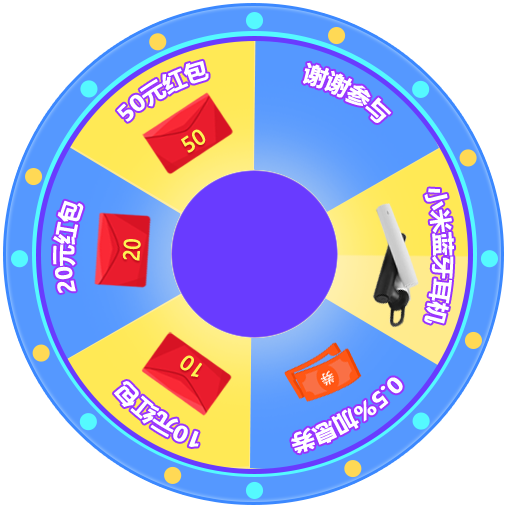
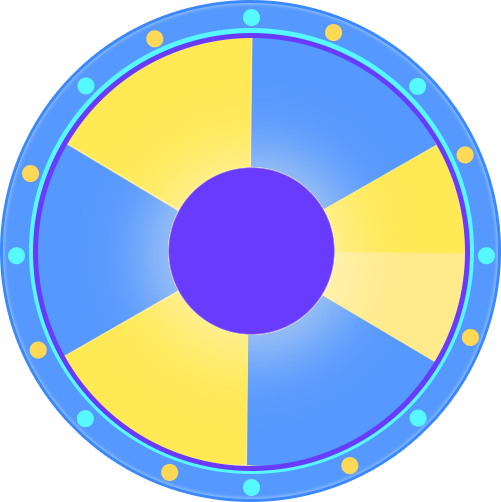
修改转盘

diff --git a/src/html/B/turning_disc.html b/src/html/B/turning_disc.html
@@ -54,7 +54,33 @@
             <div class="turning" data="0">
                 <img src="../../images/icon_Rotary_02@2x.png" />
             </div>
-            <img class="rota-img" src="../../images/icon_Rotary_01@2x.png" />
+            <div class="rota-img">
+                <div class="rota-item" style="transform: rotate(30deg);">
+                    <p>50元红包</p>
+                    <img src="../../images/pic2.png" />
+                </div>
+                <div class="rota-item" style="transform: rotate(90deg);">
+                    <p>20元红包</p>
+                    <img src="../../images/pic2.png" />
+                </div>
+                <div class="rota-item" style="transform: rotate(150deg);">
+                    <p>10元红包</p>
+                    <img src="../../images/pic2.png" />
+                </div>
+                <div class="rota-item" style="transform: rotate(210deg);">
+                    <p>0.5%加息劵</p>
+                    <img src="../../images/pic2.png" />
+                </div>
+                <div class="rota-item" style="transform: rotate(270deg);">
+                    <p>小米蓝牙耳机</p>
+                    <img src="../../images/pic2.png" />
+                </div>
+                <div class="rota-item" style="transform: rotate(330deg);">
+                    <p>谢谢参与</p>
+                    <img src="../../images/pic2.png" />
+                </div>
+            </div>
+            <!-- <img class="rota-img" src="../../images/icon_Rotary_01@2x.png" /> -->
         </div>
     </div>
 
@@ -66,21 +92,17 @@
 
 <script>
     var turnArr = [{
-        name: '50元红包'
-    }, {
-        name: '20元红包'
-    }, {
-        name: '10元红包'
-    }, {
-        name: '0.5%加息劵'
+        name: '谢谢参与'
     }, {
         name: '小米蓝牙耳机'
     }, {
-        name: '谢谢参与'
+        name: '0.5%加息劵'
     }, {
-        name: '谢谢参与1'
+        name: '10元红包'
     }, {
-        name: '谢谢参与2'
+        name: '20元红包'
+    }, {
+        name: '50元红包'
     }];
 
 

diff --git a/src/less/B/turning_disc.less b/src/less/B/turning_disc.less
@@ -75,4 +75,26 @@
 .rota-img {
     width: 5.66rem;
     height: 5.66rem;
+    background-size: 100% 100%;
+    background-repeat: no-repeat;
+    background-image: url('../../images/icon_Rotary_01@2x.png');
+    position: relative;
+
+    .rota-item {
+        width: 5.6rem;
+        transform-origin: 50% 2.9rem;
+        position: absolute;
+        text-align: center;
+        color: #fff;
+        padding-top: 0.6rem;
+        font-size: 0.28rem;
+        font-weight: bold;
+        -webkit-text-stroke: 0.01rem #693bff;
+
+        img {
+            max-width: 1.2rem;
+            max-height: 0.65rem;
+            margin-top: 0.15rem;
+        }
+    }
 }

diff --git a/src/css/B/turning_disc.css b/src/css/B/turning_disc.css
@@ -78,4 +78,26 @@
 .rota-img {
   width: 5.66rem;
   height: 5.66rem;
+  background-size: 100% 100%;
+  background-repeat: no-repeat;
+  background-image: url(../../images/icon_Rotary_01@2x.png);
+  position: relative;
+}
+.rota-img .rota-item {
+  width: 5.6rem;
+  -webkit-transform-origin: 50% 2.9rem;
+      -ms-transform-origin: 50% 2.9rem;
+          transform-origin: 50% 2.9rem;
+  position: absolute;
+  text-align: center;
+  color: #fff;
+  padding-top: 0.6rem;
+  font-size: 0.28rem;
+  font-weight: bold;
+  -webkit-text-stroke: 0.01rem #693bff;
+}
+.rota-img .rota-item img {
+  max-width: 1.2rem;
+  max-height: 0.65rem;
+  margin-top: 0.15rem;
 }
